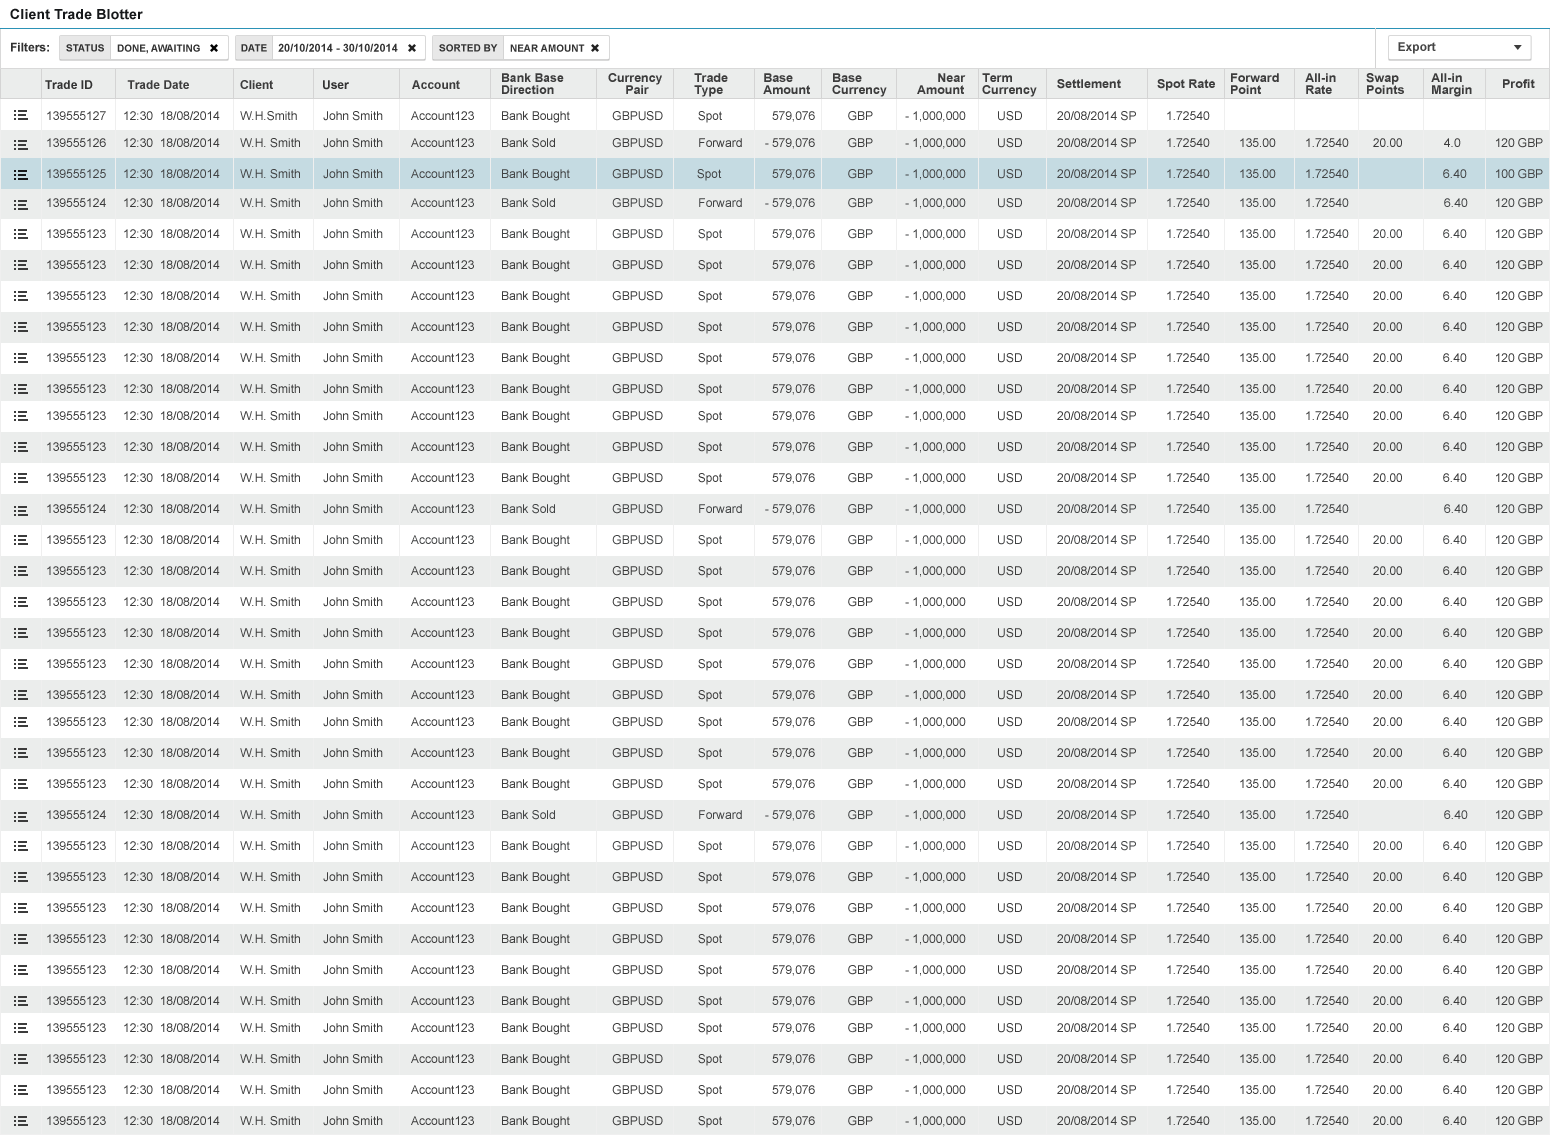
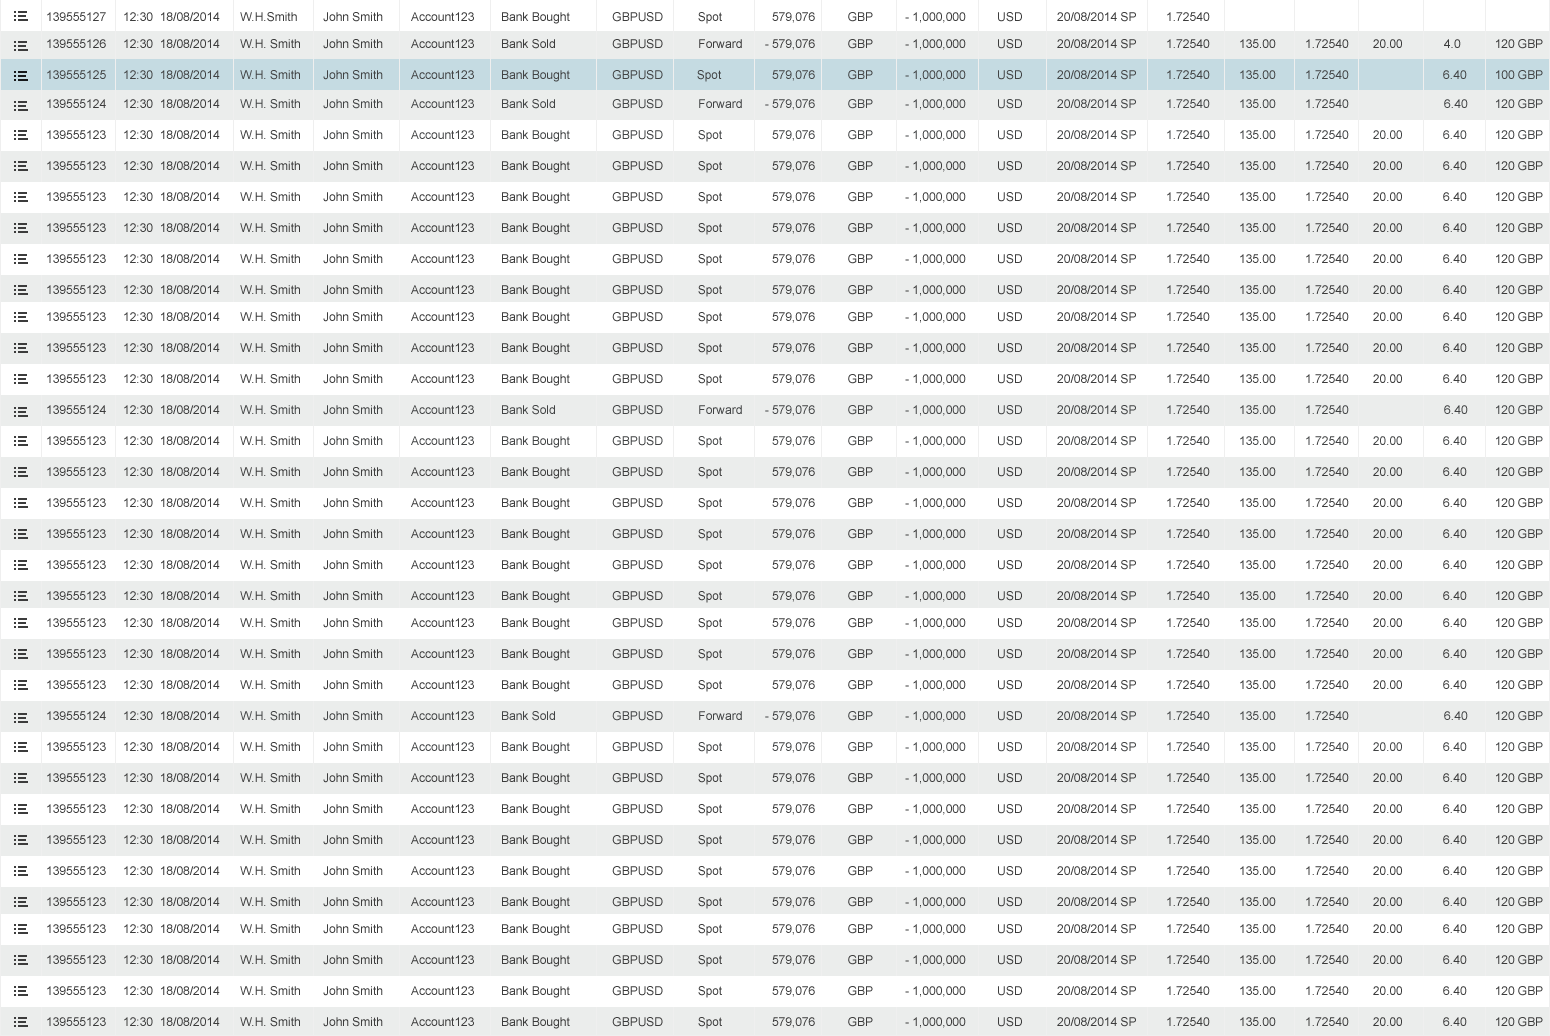
scrolling blotter

diff --git a/resizable-layout/sass/resize.scss b/resizable-layout/sass/resize.scss
@@ -81,13 +81,7 @@ html, body {
   padding-left:20px;
   color: #f1f3f2;
 }
-.test[max-width~="500px"] {
-  background-color: blue;
-}
-.blotter {
-   background-image: url('../img/client-trade-blotter.png'), url('../img/client-trade-blotter-1px.png');
-   background-repeat: no-repeat, repeat-x;
-}
+
   // .blotter[max-height~="500px"] {
   //    background-image: url('http://www.slipperybrick.com/wp-content/uploads/2010/06/laser-guided-scissors.jpg');
   //  }
@@ -165,3 +159,18 @@ html, body {
     width: 203px;
     height: 116px;
   }
+
+.blotter-head {
+   background-image: url('../img/client-trade-blotter-topbar.png'), url('../img/client-trade-blotter-topbar-1px.png');
+   background-repeat: no-repeat, repeat-x;
+   height: 99px;
+}
+.blotter {
+   overflow-y: scroll;
+   height: 100%;
+ }
+ .blotter-rows {
+    background-image: url('../img/client-trade-blotter.png'), url('../img/client-trade-blotter-1px.png');
+    background-repeat: no-repeat, repeat-x;
+    height: 1036px;
+ }

diff --git a/resizable-layout/css/resize.css b/resizable-layout/css/resize.css
@@ -80,13 +80,6 @@ html, body {
   padding-left: 20px;
   color: #f1f3f2; }
 
-.test[max-width~="500px"] {
-  background-color: blue; }
-
-.blotter {
-  background-image: url("../img/client-trade-blotter.png"), url("../img/client-trade-blotter-1px.png");
-  background-repeat: no-repeat, repeat-x; }
-
 .vsplitbar {
   width: 12px;
   background: #969898; }
@@ -150,5 +143,19 @@ html, body {
   background-image: url("../img/med-tile.png");
   width: 203px;
   height: 116px; }
+
+.blotter-head {
+  background-image: url("../img/client-trade-blotter-topbar.png"), url("../img/client-trade-blotter-topbar-1px.png");
+  background-repeat: no-repeat, repeat-x;
+  height: 99px; }
+
+.blotter {
+  overflow-y: scroll;
+  height: 100%; }
+
+.blotter-rows {
+  background-image: url("../img/client-trade-blotter.png"), url("../img/client-trade-blotter-1px.png");
+  background-repeat: no-repeat, repeat-x;
+  height: 1036px; }
 
 /*# sourceMappingURL=resize.css.map */

diff --git a/resizable-layout/index.html b/resizable-layout/index.html
@@ -90,9 +90,16 @@
                         <span class="tile"></span>
                     </div>
                 </div>
+
             </div>
 
-            <div class="blotter"></div>
+            <div class="pane">
+                <div class="blotter-head"></div>
+                <div class="blotter">
+                    <div class="blotter-rows"></div>
+                </div>
+            </div>
+
         </div>
     </div>
 
